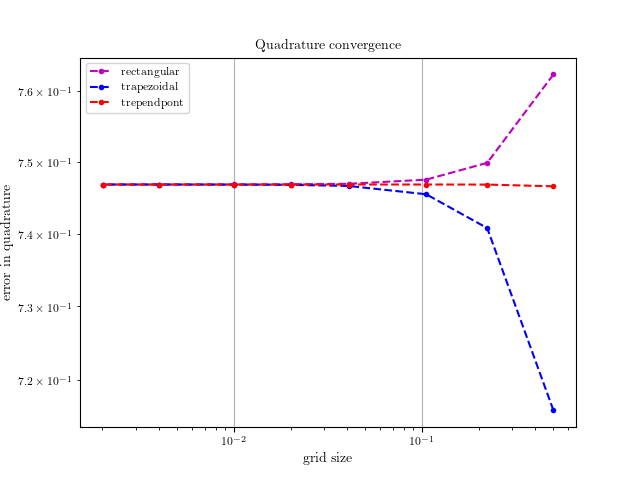
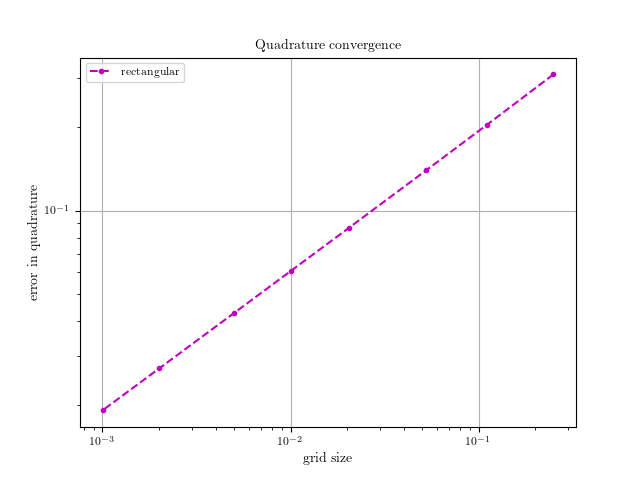
script to implement rectangular rule

diff --git a/Endsem/Scripts/program7.py b/Endsem/Scripts/program7.py
@@ -23,11 +23,11 @@ matplotlib.rcParams["text.usetex"] = True
 matplotlib.use("Agg")
 
 # end points of interval
-a, b = -1, 1
+a, b = 0, 1
 
 # function to be integrated
 def f(x):
-    return np.exp(-(x ** 2))
+    return np.exp(-x)/np.sqrt(x)
 
 
 # derivative of the function
@@ -36,7 +36,7 @@ def g(x):
 
 
 # exact value of the integral
-exact = 0.746824132812427025399
+exact = 1.49364826562485405080
 
 # number of grid points
 N = [5, 10, 20, 50, 100, 200, 500, 1000]
@@ -47,8 +47,6 @@ Ngrids = len(N)
 h = np.zeros(Ngrids)
 
 rect = np.zeros(Ngrids)
-trap = np.zeros(Ngrids)
-tend = np.zeros(Ngrids)
 
 for k, N in enumerate(N):
     h[k] = (b - a) / (N - 1)
@@ -56,19 +54,13 @@ for k, N in enumerate(N):
     y = 0.5*(x[0:N-1] + x[1:N])
 
     rect[k] = h[k]*np.sum(f(y))
-    trap[k] = h[k] * (np.sum(f(x)) - (f(a) + f(b)) / 2)
-    tend[k] = trap[k] - h[k] ** 2 / 12 * (g(b) - g(a))
 
 
 # error calculations
 rect_err = abs(np.double(rect - exact))
-trap_err = abs(np.double(trap - exact))
-tend_err = abs(np.double(tend - exact))
 
 fig, ax = plt.subplots()
 ax.loglog(h, rect_err, 'm.--', label=r'rectangular')
-ax.loglog(h, trap_err, "b.--", label=r"trapezoidal")
-ax.loglog(h, tend_err, "r.--", label=r"trependpont")
 ax.set(xlabel=r"grid size", ylabel=r"error in quadrature")
 ax.set_title(r"Quadrature convergence")
 ax.grid(True)
